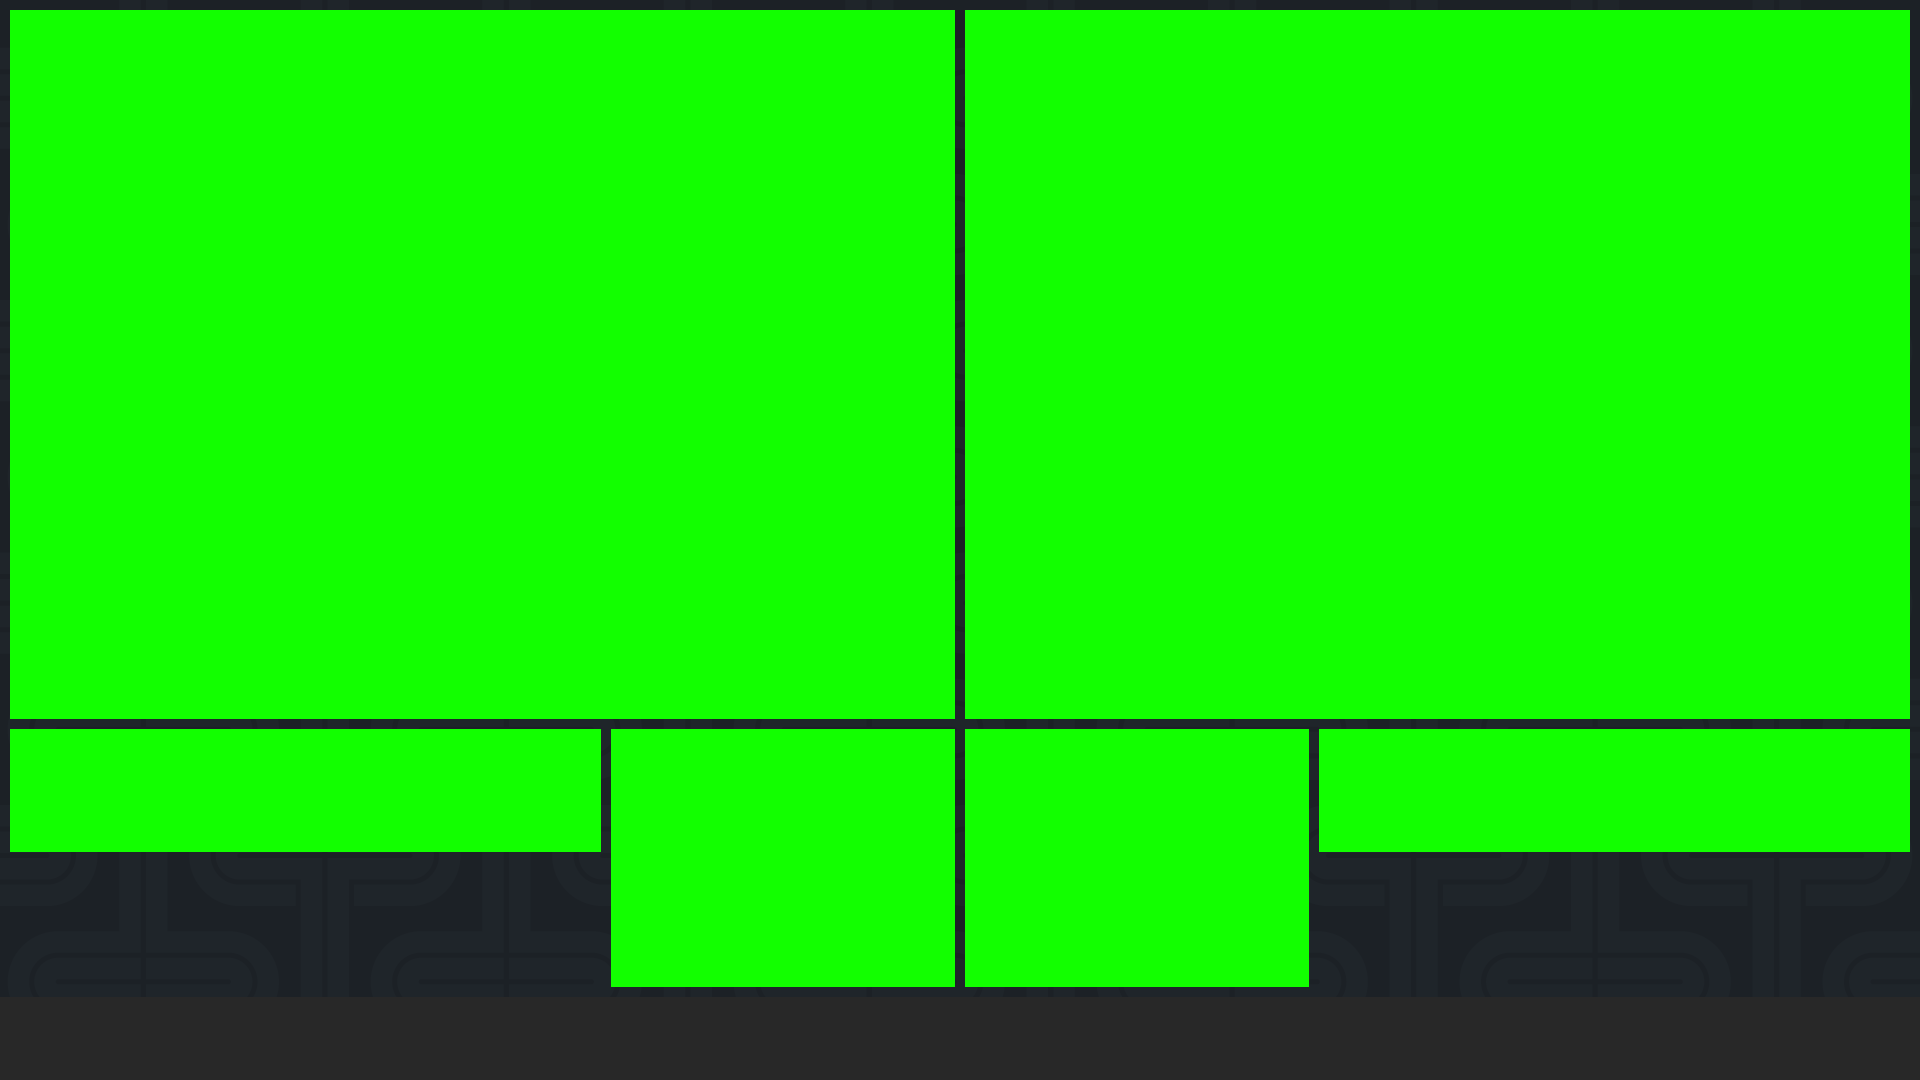
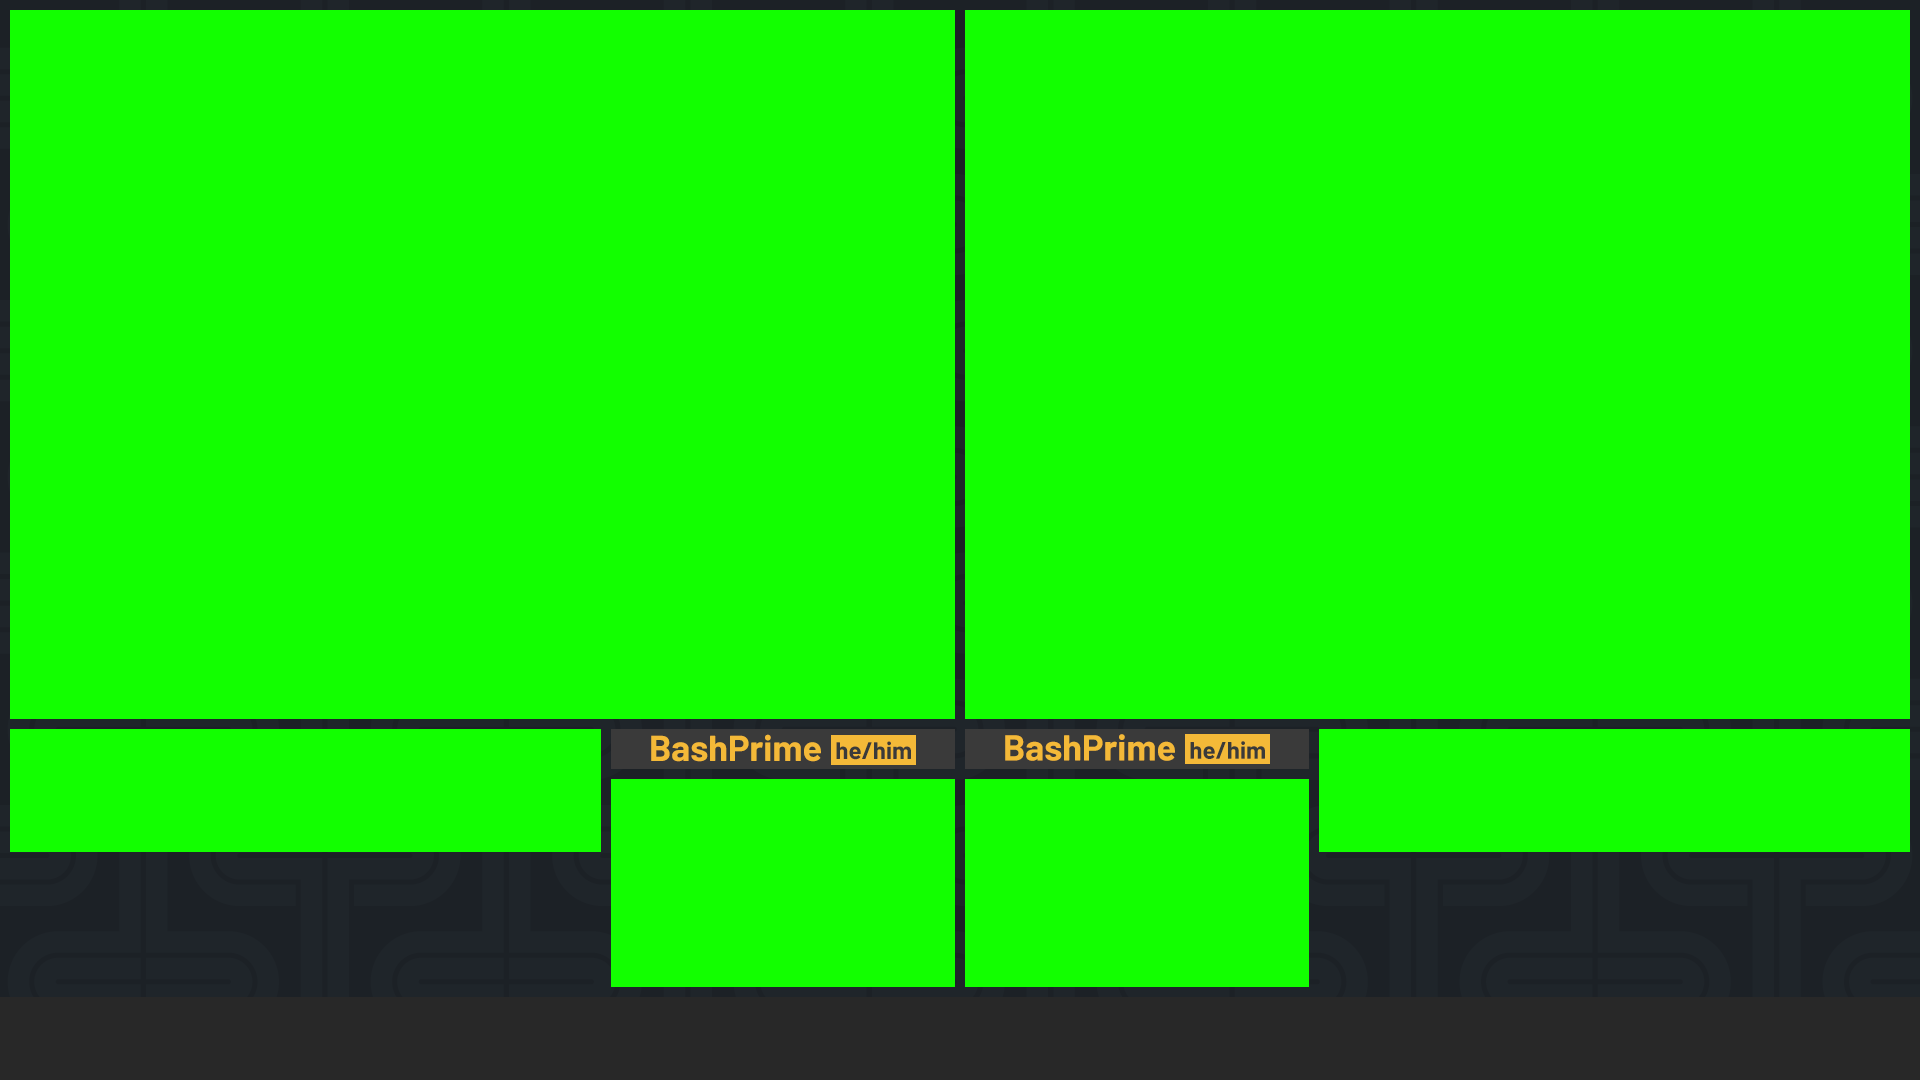
Checkpoint on layouts, sponsor container styling

Changed region(s): [[0.3125, 0.6722, 0.6875, 0.7333]]

diff --git a/butter-blitz-2022/graphics/css/16x9_1p.css b/butter-blitz-2022/graphics/css/16x9_1p.css
@@ -37,14 +37,14 @@
 
 /* Sponsor panel. */
 #sponsor-container {
-	width: 585px;
-	height: 300px;
-	line-height: 300px;
-	left: 0;
-	top: 694px;
+	width: 404px;
+	height: 513px;
+	left: 10px;
+	bottom: 93px;
 }
 
 /* Sponsor image max size. */
 img#sponsor-img {
-	max-width: 45%;
+	max-width: 100%;
+	max-height: 100%;
 }

diff --git a/butter-blitz-2022/graphics/css/4x3_1p.css b/butter-blitz-2022/graphics/css/4x3_1p.css
@@ -38,14 +38,14 @@
 
 /* Sponsor panel. */
 #sponsor-container {
-	width: 585px;
-	height: 300px;
-	line-height: 300px;
-	left: 0;
-	top: 694px;
+	width: 574px;
+	height: 234px;
+	left: 10px;
+	bottom: 93px;
 }
 
 /* Sponsor image max size. */
 img#sponsor-img {
-	max-width: 45%;
+	max-width: 80%;
+	max-height: 100%;
 }

diff --git a/butter-blitz-2022/graphics/css/GBA.css b/butter-blitz-2022/graphics/css/GBA.css
@@ -38,14 +38,14 @@
 
 /* Sponsor panel. */
 #sponsor-container {
-	width: 585px;
-	height: 300px;
-	line-height: 300px;
-	left: 0;
-	top: 694px;
+	width: 574px;
+	height: 234px;
+	left: 10px;
+	bottom: 93px;
 }
 
 /* Sponsor image max size. */
 img#sponsor-img {
-	max-width: 45%;
+	max-width: 80%;
+	max-height: 100%;
 }

diff --git a/butter-blitz-2022/graphics/css/16x9_2p.css b/butter-blitz-2022/graphics/css/16x9_2p.css
@@ -45,14 +45,14 @@
 
 /* Sponsor panel. */
 #sponsor-container {
-	width: 585px;
-	height: 300px;
-	line-height: 300px;
-	left: 0;
-	top: 694px;
+	width: 640px;
+	height: 167px;
+	left: 640px;
+	top: 10px;
 }
 
 /* Sponsor image max size. */
 img#sponsor-img {
-	max-width: 45%;
+	max-width: 100%;
+	max-height: 100%;
 }

diff --git a/butter-blitz-2022/graphics/css/Poke_Crystal_Rando.css b/butter-blitz-2022/graphics/css/Poke_Crystal_Rando.css
@@ -45,14 +45,14 @@
 
 /* Sponsor panel. */
 #sponsor-container {
-	width: 585px;
+	width: 389px;
 	height: 300px;
-	line-height: 300px;
-	left: 0;
-	top: 694px;
+	right: 381px;
+	bottom: 93px;
 }
 
 /* Sponsor image max size. */
 img#sponsor-img {
-	max-width: 45%;
+	max-width: 90%;
+	max-height: 100%;
 }

diff --git a/butter-blitz-2022/graphics/css/omnibar.css b/butter-blitz-2022/graphics/css/omnibar.css
@@ -30,8 +30,8 @@ body {
     background-color: var(--omnibar-background-color);
     display: flex;
     width: 1920px;
-    height: 82px;
-    border-top: 2px solid var(--omnibar-border-color);
+    height: 83px;
+    border-top: 3px solid var(--omnibar-border-color);
 }
 
 #omnibarContent {

diff --git a/butter-blitz-2022/graphics/css/4x3_2p.css b/butter-blitz-2022/graphics/css/4x3_2p.css
@@ -42,17 +42,3 @@
 	position: absolute;
 	bottom: 93px;
 }
-
-/* Sponsor panel. */
-#sponsor-container {
-	width: 585px;
-	height: 300px;
-	line-height: 300px;
-	left: 0;
-	top: 694px;
-}
-
-/* Sponsor image max size. */
-img#sponsor-img {
-	max-width: 45%;
-}

diff --git a/butter-blitz-2022/graphics/css/MP_CGC.css b/butter-blitz-2022/graphics/css/MP_CGC.css
@@ -44,17 +44,3 @@
 	right: 10px;
 	bottom: 93px;
 }
-
-/* Sponsor panel. */
-#sponsor-container {
-	width: 585px;
-	height: 300px;
-	line-height: 300px;
-	left: 0;
-	top: 694px;
-}
-
-/* Sponsor image max size. */
-img#sponsor-img {
-	max-width: 45%;
-}

diff --git a/butter-blitz-2022/graphics/4x3_2p.html b/butter-blitz-2022/graphics/4x3_2p.html
@@ -55,12 +55,6 @@
       <!-- Timer -->
       <div id="timer" class="info-box"></div>
    
-      <!-- Sponsor area -->
-      <div id="sponsor-container">
-         <img id="sponsor-img" />
-      </div>
-   
-   
    </body>
 
 </html>

diff --git a/butter-blitz-2022/graphics/MP_CGC.html b/butter-blitz-2022/graphics/MP_CGC.html
@@ -52,12 +52,6 @@
       <!-- Timer -->
       <div id="timer" class="info-box"></div>
    
-      <!-- Sponsor area -->
-      <div id="sponsor-container">
-         <img id="sponsor-img" />
-      </div>
-   
-   
    </body>
 
 </html>

diff --git a/butter-blitz-2022/graphics/css/common.css b/butter-blitz-2022/graphics/css/common.css
@@ -184,7 +184,10 @@ body {
 	display: flex;
 	align-items: center;
 	justify-content: center;
-	position: absolute;
-	
-	border: 2px solid transparent;
+	position: absolute;	
+}
+
+#sponsor-img {
+	max-width: 100%;
+	max-height: 100%;
 }
